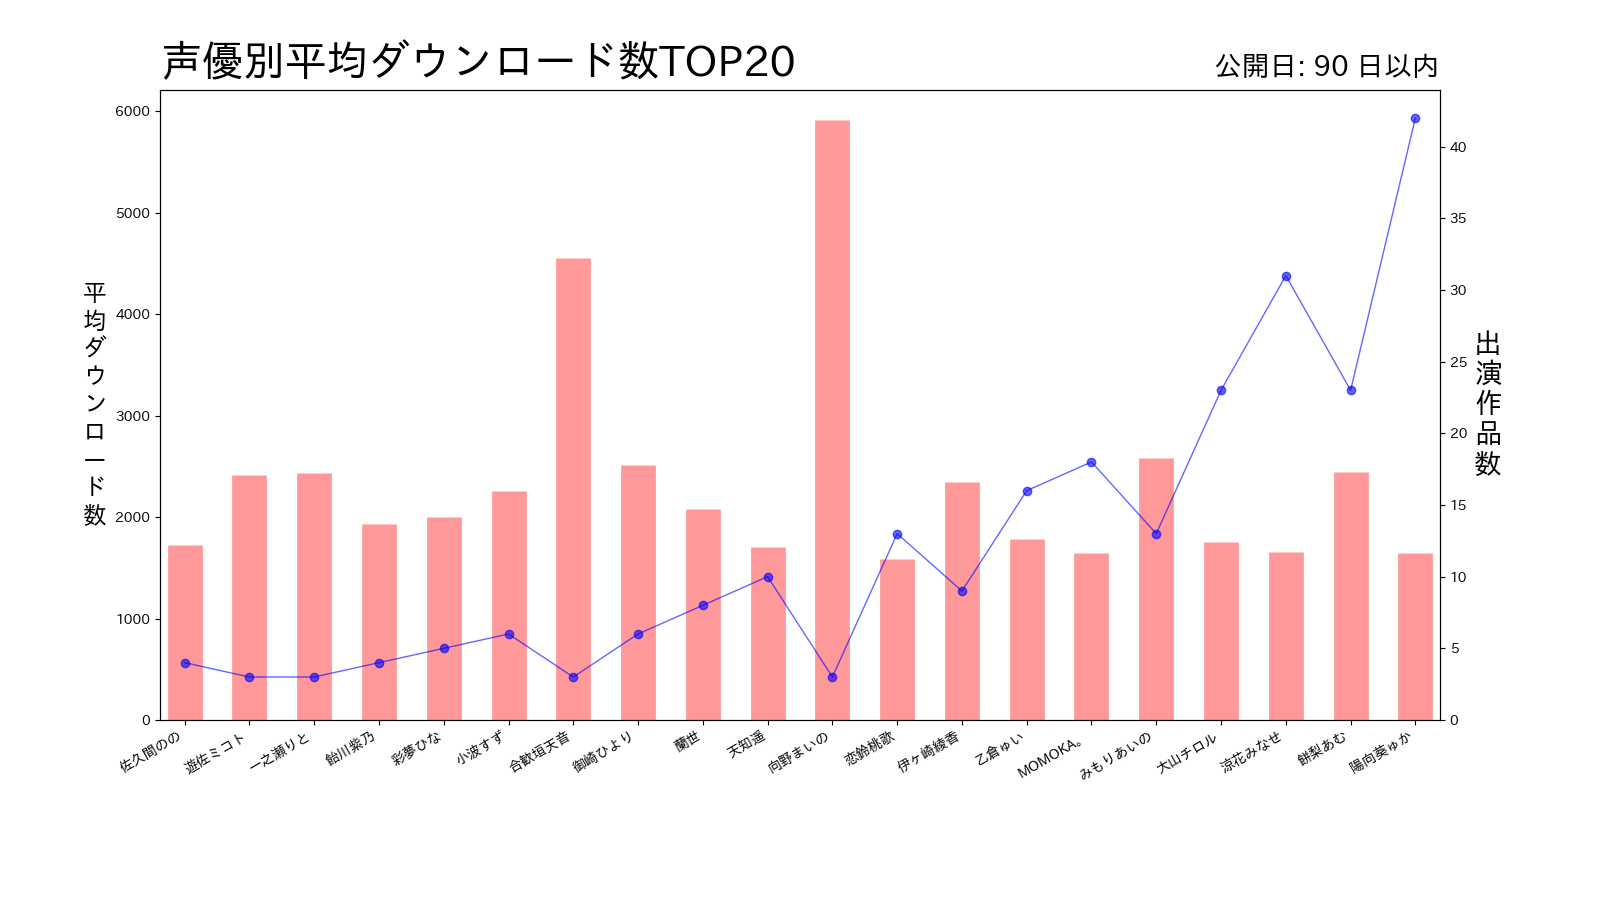
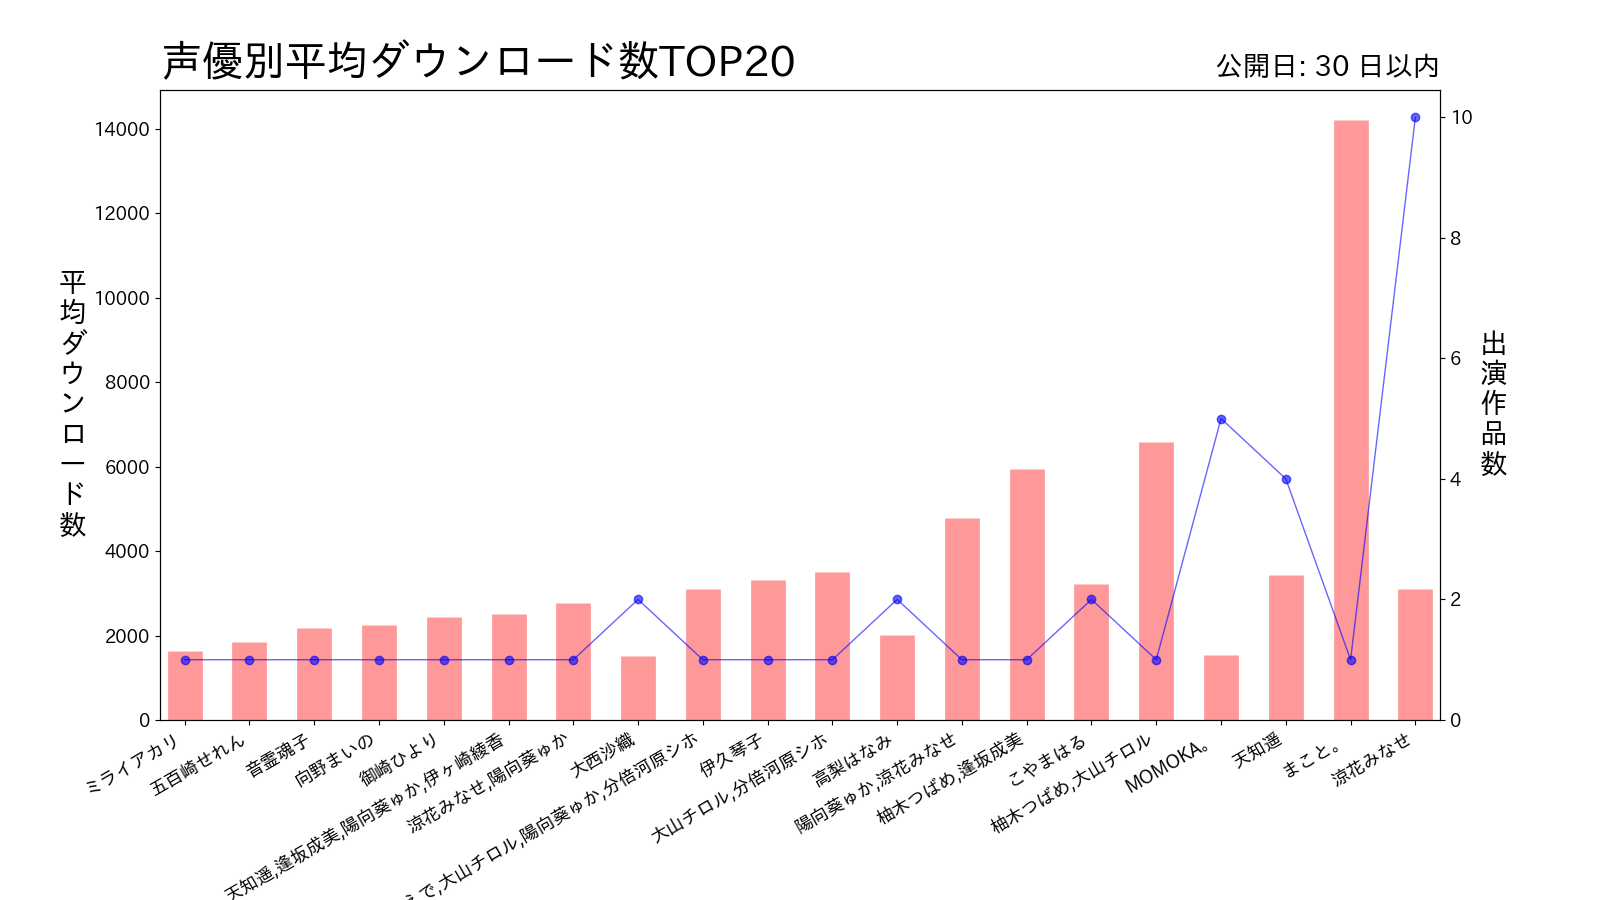
update create.py and show.py

diff --git a/show.py b/show.py
@@ -6,7 +6,7 @@ import streamlit as st
 
 # # # # # # # # # # # # # # # # # # # # # # # # # # # # # #
 
-# カラムをリネームする
+# カラムをリネーム
 def renameColumn(df):
     # カラム名
     column_names = {
@@ -78,11 +78,13 @@ def showInitialPlot(df, ps=30):
     # 「mean_downloads」カラムを反映
     ax1.vlines(df.index, ymin=0, ymax=df["mean_downloads"], colors="red", alpha=0.4, linewidth=25)
     # 一つ目のy軸にラベルを表示
-    ax1.set_ylabel("平\n均\nダ\nウ\nン\nロ\nー\nド\n数", labelpad=15, size=17, rotation=0, va="center", fontfamily="IPAexGothic")
+    ax1.set_ylabel("平\n均\nダ\nウ\nン\nロ\nー\nド\n数", labelpad=15, size=20, rotation=0, va="center", fontfamily="IPAexGothic")
     # y軸の最低値を0に固定
     ax1.set_ylim(ymin=0)
     # x軸に「index」を表示
-    plt.xticks(df.index, df["voice_actor"], rotation=30, horizontalalignment="right", fontfamily="IPAexGothic")
+    plt.xticks(df.index, df["voice_actor"], rotation=30, horizontalalignment="right", fontsize=13, fontfamily="IPAexGothic")
+    # y軸の目盛りのフォントサイズを設定
+    plt.yticks(fontsize=13)
     # グラフの位置を調整
     plt.subplots_adjust(left=0.1, bottom=0.2, right=0.9, top=0.9)
     # 二つ目のグラフを作成
@@ -94,6 +96,8 @@ def showInitialPlot(df, ps=30):
     ax2.set_ylabel("出\n演\n作\n品\n数", labelpad=15, size=20, rotation=0, va="center", fontfamily="IPAexGothic")
     # y軸の最低値を0に固定
     ax2.set_ylim(ymin=0)
+    # y軸の目盛りのフォントサイズを設定
+    plt.yticks(fontsize=13)
     # グラフの左上にメインタイトルを表示
     plt.title("声優別平均ダウンロード数TOP20", loc="left", fontsize=30, fontfamily="IPAexGothic")
     # グラフの右上に指定した期間を表示
@@ -123,7 +127,9 @@ def showSearchResultsPlot(df, title="", circle="", va="", tag=""):
     # y軸の最低値を0に固定
     ax1.set_ylim(ymin=0)
     # x軸に「index」を表示
-    plt.xticks(df.index, df["sales_date"], rotation=30, horizontalalignment="right", fontfamily="IPAexGothic")
+    plt.xticks(df.index, df["sales_date"], rotation=30, horizontalalignment="right", fontsize=13, fontfamily="IPAexGothic")
+    # y軸の目盛りのフォントサイズを設定
+    plt.yticks(fontsize=13)
     # グラフの位置を調整
     plt.subplots_adjust(left=0.1, bottom=0.2, right=0.9, top=0.9)
     # 二つ目のグラフを作成
@@ -135,6 +141,8 @@ def showSearchResultsPlot(df, title="", circle="", va="", tag=""):
     ax2.set_ylabel("作\n品\n数", labelpad=15, size=20, rotation=0, va="center", fontfamily="IPAexGothic")
     # y軸の最低値を0に固定
     ax2.set_ylim(ymin=0)
+    # y軸の目盛りのフォントサイズを設定
+    plt.yticks(fontsize=13)
     # グラフの左上にメインタイトルを表示
     plt.title("平均ダウンロード数と作品数の推移", loc="left", pad=10, fontsize=30, fontfamily="IPAexGothic")
     # 12か月以上のデータがある場合、x軸の目盛り表示を減らす

diff --git a/main.py b/main.py
@@ -152,7 +152,7 @@ if search_btn:
     # 並び順
     main_df = main_df.sort_values(sort_dict[sort_key], ascending=da_dict[desc_or_asc])
 
-    # 三種のフラグのいずれかがTrueな場合、「平均ダウンロード数と作品数の推移」を表示
+    # 四種のフラグのいずれかがTrueな場合、「平均ダウンロード数と作品数の推移」を表示
     if title_flag or circle_flag or va_flag or tag_flag:
         # 「平均ダウンロード数と作品数の推移」を作成
         search_results_df = create.createSearchResultsDf(main_df)
@@ -182,12 +182,6 @@ else:
         "平均ダウンロード数 / n日",
         options=[30, 60, 90, 180, 365, 730, 1095]
     )
-
-    # スライダーで指定された期間にデータフレームを絞る
-    period = (datetime.datetime.now() - timedelta(days=period_slider)).date()
-    main_df = main_df[main_df["sales_date"] >= period]
-    # ダウンロード数順に並び替え
-    main_df = main_df.sort_values("downloads", ascending=False)
 
     # 「声優別平均ダウンロード数TOP20」を作成
     top20 = create.createInitialDf(main_df, ps=period_slider)

diff --git a/create.py b/create.py
@@ -1,3 +1,5 @@
+from datetime import datetime as dt, timedelta
+import datetime
 import pandas as pd
 
 # # # # # # # # # # # # # # # # # # # # # # # # # # # # # #
@@ -44,6 +46,12 @@ def createSidebarDf(df, key, column):
 def createInitialDf(df, ps=30):
     # データフレームを編集する前にコピー
     result = df.copy()
+    # スライダーで指定された期間にデータフレームを絞る
+    period = (datetime.datetime.now() - timedelta(days=ps)).date()
+    result = result[result["sales_date"] >= period]
+    # ダウンロード数順に並び替え
+    result = result.sort_values("downloads", ascending=False)
+    # データフレームをグループ化する前にコピー
     alt_df = result.copy()
     # 「voice_actor」基準でグループ化
     result = result.groupby(["voice_actor"]).mean()
